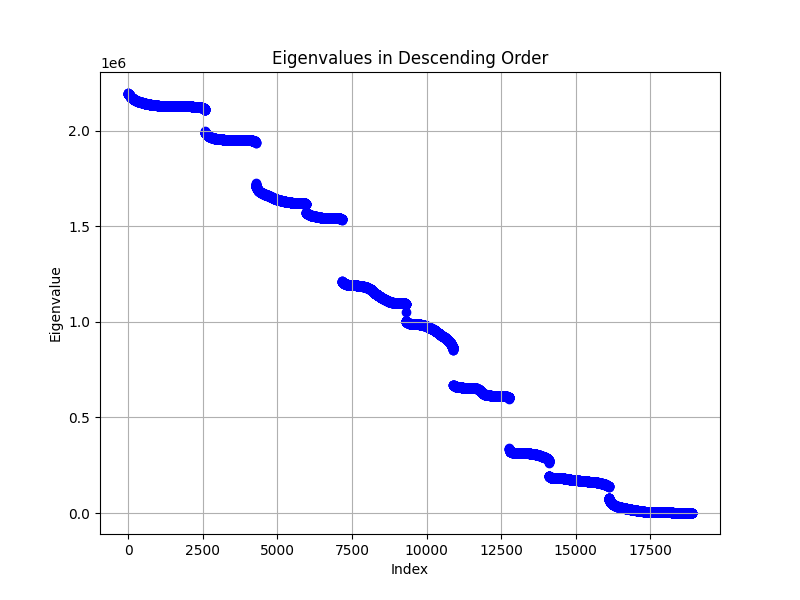
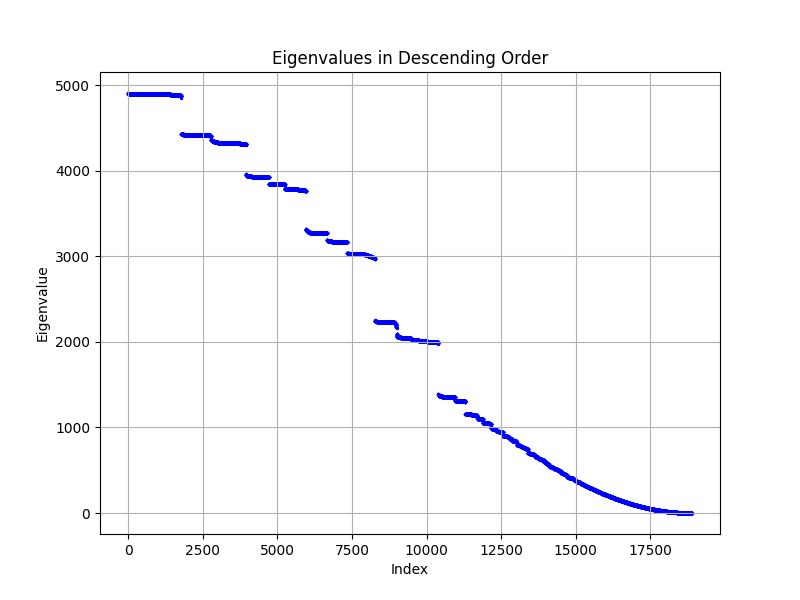
Wrapped up Hessian for now

diff --git a/rib/hook_fns.py b/rib/hook_fns.py
@@ -28,7 +28,6 @@ from rib.linalg import (
     get_local_jacobian,
 )
 from rib.models.utils import get_model_attr
-from itertools import combinations
 
 
 def _add_to_hooked_matrix(
@@ -861,72 +860,6 @@ def cluster_fn_pre_forward_hook_fn(
         _add_to_hooked_matrix(hooked_data, hook_name, cluster_num, cluster_outputs.detach())
 
 
-def collect_hessian_pre_forward_hook_fn(
-    module: torch.nn.Module,
-    inputs: Union[
-        tuple[Float[Tensor, "batch d_hidden"]],
-        tuple[Float[Tensor, "batch pos d_hidden"]],
-        tuple[Float[Tensor, "batch pos d_hidden1"],
-              Float[Tensor, "batch pos d_hidden2"]],
-    ],
-    hooked_data: dict[str, Any],
-    hook_name: str,
-    data_key: Union[str, list[str]],
-    weight_module_names: list[str],
-    copy_seq_model: nn.Module,
-    C_list: list[Float[Tensor, "out_hidden_trunc in_hidden"]],
-    use_residual_stream: bool,
-    output_dim: int = 129,
-) -> None:
-    """Hook function for collecting output activations and passing into Jacobian.
-    This hook function finds the Jacobian for all weight_modules and forms the Hessian from that.
-
-    Args:
-        module: Module that the hook is attached to (not used).
-        inputs: Inputs to the module (not used).
-        output: Output of the module. Handles modules with one or two outputs of varying d_hiddens
-            and positional indices. If no positional indices, assumes one output.
-        hooked_data: Dictionary of hook data.
-        hook_name: Name of hook. Used as a 1st-level key in `hooked_data`.
-        data_key: Name of data. Used as a 2nd-level key in `hooked_data`.
-        weight_module_names: Names of sections to form Hessian from i.e. these are the weight
-            parameters the derivatives will be taken with respect to.
-    """
-    module_dict = {name: get_model_attr(copy_seq_model, name) for name in weight_module_names}
-    # If the model is chosen to be separate to the one with hooks, no issues should arise, but
-    # remove hooks just in case to prevent recursive hook calling in forward passes in Jacobian
-    # function
-    jac_modules = list(map(_remove_hooks, module_dict.values()))
-
-    jacobians = {}
-    for i, name in enumerate(weight_module_names):
-        jac = get_local_jacobian(
-            modules=jac_modules,
-            weight_module=module_dict[name],
-            inputs=inputs,
-            C=C_list[i],
-            use_residual_stream=use_residual_stream,
-        )
-        jacobians[f"derivative wrt {name}"] = jac
-
-    J1 = jacobians["derivative wrt sections.section_0.0"]
-    J2 = jacobians["derivative wrt sections.section_1.0"]
-    H1 = torch.div(torch.matmul(J1.T, J1), 60000)
-    H2 = torch.div(torch.matmul(J2.T, J2), 60000)
-    M12 = torch.div(torch.matmul(J1.T, J2), 60000)
-    M21 = torch.div(torch.matmul(J2.T, J1), 60000)
-
-    top_row = torch.cat((H1, M12), dim=1)
-    bottom_row = torch.cat((M21, H2), dim=1)
-    H = torch.cat((top_row, bottom_row), dim=0)
-
-    del H1, H2, M12, M21, top_row, bottom_row
-    torch.cuda.empty_cache()
-    gc.collect()
-
-    _add_to_hooked_matrix(hooked_data, hook_name, f"hessian {hook_name}", H.detach().cpu())
-
-
 def _remove_hooks(module: torch.nn.Module) -> torch.nn.Module:
     """Remove module hooks. Should be careful if these hooks are needed later in code, since this
     operates directly on the module and not a copy."""
@@ -983,7 +916,7 @@ def collect_hessian_forward_hook_fn(
     is_lm = True if inputs[0].dim() == 3 else False
     outputs = output if isinstance(output, tuple) else (output,)
     resid_stream_size = inputs[0].shape[-1]
-    mlp_layer_size = outputs[1].shape[-1]
+    mlp_layer_size = inputs[1].shape[-1]
     # Calculate pre-activations
     for child in module.named_children():
         if child[0] == '0':
@@ -994,7 +927,7 @@ def collect_hessian_forward_hook_fn(
         inputs = rearrange(inputs[1], lm_einops_pattern)
         outputs = rearrange(outputs[1], lm_einops_pattern)
         preactivations = rearrange(preactivations[1], lm_einops_pattern)
-        C_0, C_1 = C_list[0][resid_stream_size:,:], C_list[1][mlp_layer_size:,:]
+        C_0, C_1 = C_list[0][resid_stream_size:,:], C_list[1][resid_stream_size:,:]
     elif is_lm and use_residual_stream:
         inputs = rearrange(torch.cat([x for x in inputs], dim=-1), lm_einops_pattern)
         outputs = rearrange(torch.cat([x for x in outputs], dim=-1), lm_einops_pattern)
@@ -1007,83 +940,19 @@ def collect_hessian_forward_hook_fn(
     for name, param in module_dict["sections.section_1.0"].named_parameters():
         if "W" in name: w_out = param
 
-    ## Calculate H1
-    h1_unit = calc_gram_matrix(inputs, DATASET_SIZE)
-    H1 = torch.block_diag(*([h1_unit]*output_dim))
-
-    ## Calculate H2
     rotated_fn_1 = inputs @ C_0
-    C_0_trunc_size = rotated_fn_1.shape[-1]
-    h2_dim = C_0_trunc_size * mlp_layer_size
-    mlp_layer_size = operator.shape[-1]
-    C_0_trunc_size = rotated_fn_1.shape[-1]
+    rotated_fn_2 = (operator * preactivations) @ C_1
 
-    # w_out_mul_itself = (w_out.T @ w_out)
-    # w_factor = repeat(w_out_mul_itself, 'h w -> (h d1) (w d2)', d1=h2_dim, d2=h2_dim)
+    ## Calculate H1
+    h1_unit = calc_gram_matrix(rotated_fn_2, DATASET_SIZE)
+    H1 = torch.block_diag(*([h1_unit]*mlp_layer_size))
+    ## Calculate H2 - 4-tensor needs flattening later
+    H2 = torch.div(torch.einsum('ij,bi,bj,bk,bl -> ijkl', w_out @ w_out.T, operator, operator, rotated_fn_1, rotated_fn_1), DATASET_SIZE)
+    ## Calculate M12 - 4-tensor needs flattening later
+    M12 = torch.div(torch.einsum('ij,bj,bk,bl -> ijkl', w_out.T, operator, rotated_fn_1, rotated_fn_2), DATASET_SIZE)
 
-    ## ====== Takes up a lot of space =======
-    # indices = torch.arange(h2_dim) % C_0_trunc_size
-    # operator_repeated = operator[:, indices % mlp_layer_size]
-    # rotated_fn_repeated = rotated_fn_1[:, indices]
-    # bit_in_sum = operator_repeated.unsqueeze(2) * operator_repeated.unsqueeze(1) * bit_in_sum * rotated_fn_repeated.unsqueeze(2) * rotated_fn_repeated.unsqueeze(1)
-    # H2 = torch.einsum('bhw->hw', bit_in_sum)
-
-    ## Middling ground: block for loop allows space-time tradeoff
-    ## Apparently this still uses too much memory
-    # H2 = torch.zeros((h2_dim, h2_dim))
-    # for i in range(C_0_trunc_size):
-    #     for j in range(C_0_trunc_size):
-    #         indices_operator = torch.arange(mlp_layer_size)
-    #         operator_i = repeat(operator[:, indices_operator], 'b d_hidden -> b d_hidden d', d=mlp_layer_size)
-    #         operator_j = repeat(operator[:, indices_operator], 'b d_hidden -> b d d_hidden', d=mlp_layer_size)
-    #         rotated_fn_i = repeat(rotated_fn_1[:, i], 'b -> b d', d=mlp_layer_size)
-    #         rotated_fn_j = repeat(rotated_fn_1[:, j], 'b -> b d', d=mlp_layer_size)
-
-    #         # Vectorized operation within the block
-    #         bit_in_sum = operator_i * operator_j * rotated_fn_i.unsqueeze(2) * rotated_fn_j.unsqueeze(1)
-
-    #         # Reduction for the block
-    #         H2_block = torch.einsum('bhw->hw', bit_in_sum)
-
-    #         # Place the computed block in the appropriate position of H2
-    #         H2[i * mlp_layer_size:(i + 1) * mlp_layer_size, j * mlp_layer_size:(j + 1) * mlp_layer_size] = H2_block
-
-    ## Middling ground: block for loop allows space-time tradeoff - take 2, using longer for loops
-    H2 = torch.zeros((h2_dim, h2_dim))
-    for i in range(mlp_layer_size):
-        for j in range(mlp_layer_size):
-            operator_i = repeat(operator[:, i], 'b -> b d', d=C_0_trunc_size)
-            operator_j = repeat(operator[:, j], 'b -> b d', d=C_0_trunc_size)
-            rotated_fn_i = repeat(rotated_fn_1, 'b d_C_0 -> b d_C_0 d', d=C_0_trunc_size)
-            rotated_fn_j = repeat(rotated_fn_1, 'b d_C_0 -> b d d_C_0', d=C_0_trunc_size)
-
-            # Vectorized operation within the block
-            bit_in_sum = rotated_fn_i * rotated_fn_j * operator_i.unsqueeze(2) * operator_j.unsqueeze(1)
-
-            # Reduction for the block
-            H2_block = torch.einsum('bhw->hw', bit_in_sum)
-
-            # Place the computed block in the appropriate position of H2
-            H2[i * C_0_trunc_size:(i + 1) * C_0_trunc_size, j * C_0_trunc_size:(j + 1) * C_0_trunc_size] = H2_block
-
-            # Debug check
-            if i == 13 and j == 16:
-                assert all(bit_in_sum[:, 13, 16] == operator[:, 13] * operator[:, 16] * rotated_fn_1[:, 13] * rotated_fn_1[:, 16])
-
-    ## ====== Takes up a lot of time =======
-    # H2 = torch.zeros((h2_dim, h2_dim))
-    # for i in range(h2_dim):
-    #     for j in range(h2_dim):
-    #         w_factor = w_out_mul_itself[i % C_0_trunc_size, j % C_0_trunc_size]
-    #         bit_in_sum = operator[:,i % mlp_layer_size] * operator[:,j % mlp_layer_size] * rotated_fn_1[:,i % C_0_trunc_size] * rotated_fn_1[:,j % C_0_trunc_size]
-    #         H2[i, j] = torch.einsum('b -> ', bit_in_sum * w_factor)
-
-    ## Calculate mixed off-diagonal block
-
-    del H1, H2, M12
     torch.cuda.empty_cache()
     gc.collect()
-
     _add_to_hooked_matrix(hooked_data, hook_name, f"H1 {hook_name}", H1.detach().cpu())
     _add_to_hooked_matrix(hooked_data, hook_name, f"H2 {hook_name}", H2.detach().cpu())
     _add_to_hooked_matrix(hooked_data, hook_name, f"M12 {hook_name}", M12.detach().cpu())

diff --git a/experiments/relu_interactions/transformer_relu.py b/experiments/relu_interactions/transformer_relu.py
@@ -161,8 +161,15 @@ def get_Cs(
     C_pinv_list = [C_info.C_pinv for C_info in Cs if C_info is not None]
 
     with open(file_path, "wb") as f:
-        torch.save({"C": C_list, "C_pinv": C_pinv_list, "Lambda_abs_sqrts": Lambda_abs_sqrts, "Lambda_abs_sqrt_pinvs": Lambda_abs_sqrt_pinvs,
-                   "U_D_sqrt_pinv_Vs": U_D_sqrt_pinv_Vs, "U_D_sqrt_Vs": U_D_sqrt_Vs, "Lambda_dashes": Lambda_dashes, "Cs raw": Cs, "Us raw": Us, "gram matrices": gram_matrices, }, f)
+        torch.save({
+            "C": C_list, "C_pinv": C_pinv_list,
+            "Lambda_abs_sqrts": Lambda_abs_sqrts, "Lambda_abs_sqrt_pinvs": Lambda_abs_sqrt_pinvs,
+            "U_D_sqrt_pinv_Vs": U_D_sqrt_pinv_Vs, "U_D_sqrt_Vs": U_D_sqrt_Vs,
+            "Lambda_dashes": Lambda_dashes,
+            "Cs raw": Cs, "Us raw": Us,
+            "gram matrices": gram_matrices,
+            },
+        f)
 
     return {"C": C_list, "C_pinv": C_pinv_list, "Lambda_abs_sqrts": Lambda_abs_sqrts, "Lambda_abs_sqrt_pinvs": Lambda_abs_sqrt_pinvs, "U_D_sqrt_pinv_Vs": U_D_sqrt_pinv_Vs, "U_D_sqrt_Vs": U_D_sqrt_Vs, "Lambda_dashes": Lambda_dashes, "Cs raw": Cs, "Us raw": Us, "gram matrices": gram_matrices}
 
@@ -474,6 +481,8 @@ def hessian_main(config_path_str: str):
     set_seed(config.seed)
 
     Cs_save_file = Path(__file__).parent / "Cs_for_hessian"
+    Lanczos_save_file = Path(__file__).parent / "hessian_krylov"
+    hessian_eig_save_file = Path(__file__).parent / "hessian_eig"
     out_dir = Path(__file__).parent / f"out_transformer_relu"
     out_dir.mkdir(parents=True, exist_ok=True)
 
@@ -522,62 +531,40 @@ def hessian_main(config_path_str: str):
         device=device,
         hooked_model=hooked_model,
     )
+    C_list = Cs_and_Lambdas["C"]
 
-    C_list, C_pinv_list = Cs_and_Lambdas["C"], Cs_and_Lambdas["C_pinv"]
+    if Lanczos_save_file.exists():
+        with Lanczos_save_file.open("rb") as f:
+            Hk = torch.load(f, map_location="cpu")
+    else:
+        # Has to be in order of passing through model AND has to match C_list order
+        weight_module_names = ["sections.section_0.0", "sections.section_1.0"]
+        H = collect_hessian(
+            hooked_model=hooked_model,
+            input_module_name="sections.section_0",
+            data_loader=graph_train_loader,
+            dtype=dtype,
+            device=device,
+            weight_module_names=weight_module_names,
+            copy_seq_model=copy_seq_model,
+            C_list=C_list,
+            use_residual_stream=config.use_residual_stream,
+        )
+        Hk, Lv = lanczos(H)
+        with open(Lanczos_save_file, "wb") as f:
+            torch.save(Hk, f)
 
-    # Has to be in order of passing through model AND has to match C_list order
-    weight_module_names = ["sections.section_0.0", "sections.section_1.0"]
+    if hessian_eig_save_file.exists():
+        with hessian_eig_save_file.open("rb") as f:
+            eigs = torch.load(f, map_location="cpu")
+            sorted_eigenvalues = eigs["vals"]
+            sorted_eigenvectors = eigs["vecs"]
+    else:
+        sorted_eigenvalues, sorted_eigenvectors = eigendecompose(Hk)
+        with open(hessian_eig_save_file, "wb") as f:
+            torch.save({"vals": sorted_eigenvalues, "vecs": sorted_eigenvectors}, f)
 
-    H = collect_hessian(
-        hooked_model=hooked_model,
-        input_module_name="sections.section_0",
-        data_loader=graph_train_loader,
-        dtype=dtype,
-        device=device,
-        weight_module_names=weight_module_names,
-        copy_seq_model=copy_seq_model,
-        C_list=C_list,
-        use_residual_stream=config.use_residual_stream,
-    )
-
-    ## For debugging purposes
-    # name = "sections.section_1.0"
-    # # inputs need to be given by hook function return
-    # jacobians[f"derivative wrt {name}"] = collect_acts_and_get_jacobian(
-    #     hooked_model=hooked_model,
-    #     module_names=["sections.section_0.0"],
-    #     data_loader=graph_train_loader,
-    #     dtype=dtype,
-    #     device=device,
-    #     jac_modules=module_dict.values(),
-    #     weight_module=module_dict[name],
-    #     C=C_list[1],
-    # )
-
-    # X = len(graph_train_loader.dataset)
-    # ## Now make Hessian
-    # J1 = jacobians["derivative wrt sections.section_0.0"]
-    # J2 = jacobians["derivative wrt sections.section_1.0"]
-    # H1 = torch.div(torch.matmul(J1.T, J1), X)
-    # H2 = torch.div(torch.matmul(J2.T, J2), X)
-    # # Compute the mixed terms
-    # M12 = torch.div(torch.matmul(J1.T, J2), X)
-    # M21 = torch.div(torch.matmul(J2.T, J1), X)
-    # # Form the top and bottom rows of the final Hessian
-    # top_row = torch.cat((H1, M12), dim=1)
-    # bottom_row = torch.cat((M21, H2), dim=1)
-    # # Concatenate to form the final Hessian
-    # H = torch.cat((top_row, bottom_row), dim=0)
-
-    # del H1, H2, M12, M21, top_row, bottom_row
-    # torch.cuda.empty_cache()
-    # gc.collect()
-
-    # sorted_eigenvalues, sorted_eigenvectors = eigendecompose(H)
-    Hk, Lv = lanczos(H)
-    print("finish lanczos")
-    sorted_eigenvalues, sorted_eigenvectors = eigendecompose(Hk)
-    print("got eigenvalues")
+    print(len(sorted_eigenvalues[sorted_eigenvalues < 5]))
     plot_eigenvalues(sorted_eigenvalues, out_dir, title=f"Hessian MLP")
 
 

diff --git a/rib/data_accumulator.py b/rib/data_accumulator.py
@@ -12,6 +12,7 @@ from jaxtyping import Float, Int
 from torch import Tensor
 from torch.utils.data import DataLoader
 from tqdm import tqdm
+from einops import rearrange
 
 from rib.hook_fns import (
     M_dash_and_Lambda_dash_pre_forward_hook_fn,
@@ -24,7 +25,6 @@ from rib.hook_fns import (
     test_edges_forward_hook_fn,
     cluster_gram_forward_hook_fn,
     cluster_fn_pre_forward_hook_fn,
-    collect_hessian_pre_forward_hook_fn,
     collect_hessian_forward_hook_fn,
 )
 from rib.hook_fns_non_static import (
@@ -896,7 +896,15 @@ def collect_hessian(
     )
 
     run_dataset_through_model(hooked_model, data_loader, hooks=[input_act_hook], dtype=dtype, device=device)
-    hessian = hooked_model.hooked_data[input_module_name][f"hessian {input_module_name}"]
+    H1 = hooked_model.hooked_data[input_module_name][f"H1 {input_module_name}"]
+    H2 = hooked_model.hooked_data[input_module_name][f"H2 {input_module_name}"]
+    M12 = hooked_model.hooked_data[input_module_name][f"M12 {input_module_name}"]
     hooked_model.clear_hooked_data()
 
-    return hessian
+    H2_flat = rearrange(H2, 'a b c d -> (a c) (b d)')
+    M12_flat = rearrange(M12, 'a b c d -> (a d) (b c)')
+    top_row = torch.cat((H1, M12_flat), dim=1)
+    bottom_row = torch.cat((M12_flat.T, H2_flat), dim=1)
+    H = torch.cat((top_row, bottom_row), dim=0)
+
+    return H

diff --git a/experiments/relu_interactions/relu_interaction_utils.py b/experiments/relu_interactions/relu_interaction_utils.py
@@ -493,7 +493,7 @@ def plot_matrix_list(matrix_list: list[Float[Tensor, "d_hidden d_hidden"]], var_
 
 def plot_eigenvalues(eigenvalues: Float[Tensor, "d_hidden"], out_dir: Path, title: str) -> None:
     plt.figure(figsize=(8, 6))
-    plt.scatter(range(len(eigenvalues)), eigenvalues, color='blue')
+    plt.scatter(range(len(eigenvalues)), eigenvalues, color='blue', s=2)
     plt.title('Eigenvalues in Descending Order')
     plt.xlabel('Index')
     plt.ylabel('Eigenvalue')
@@ -507,8 +507,6 @@ def plot_eigenvectors(eigenvectors: np.ndarray, out_dir: Path, title: str, num_v
     x = np.arange(num_components)  # the label locations
 
     plt.figure(figsize=(10, 6))
-
-    # Width of a bar
     width = 0.8 / num_vectors
 
     for i in range(num_vectors):
